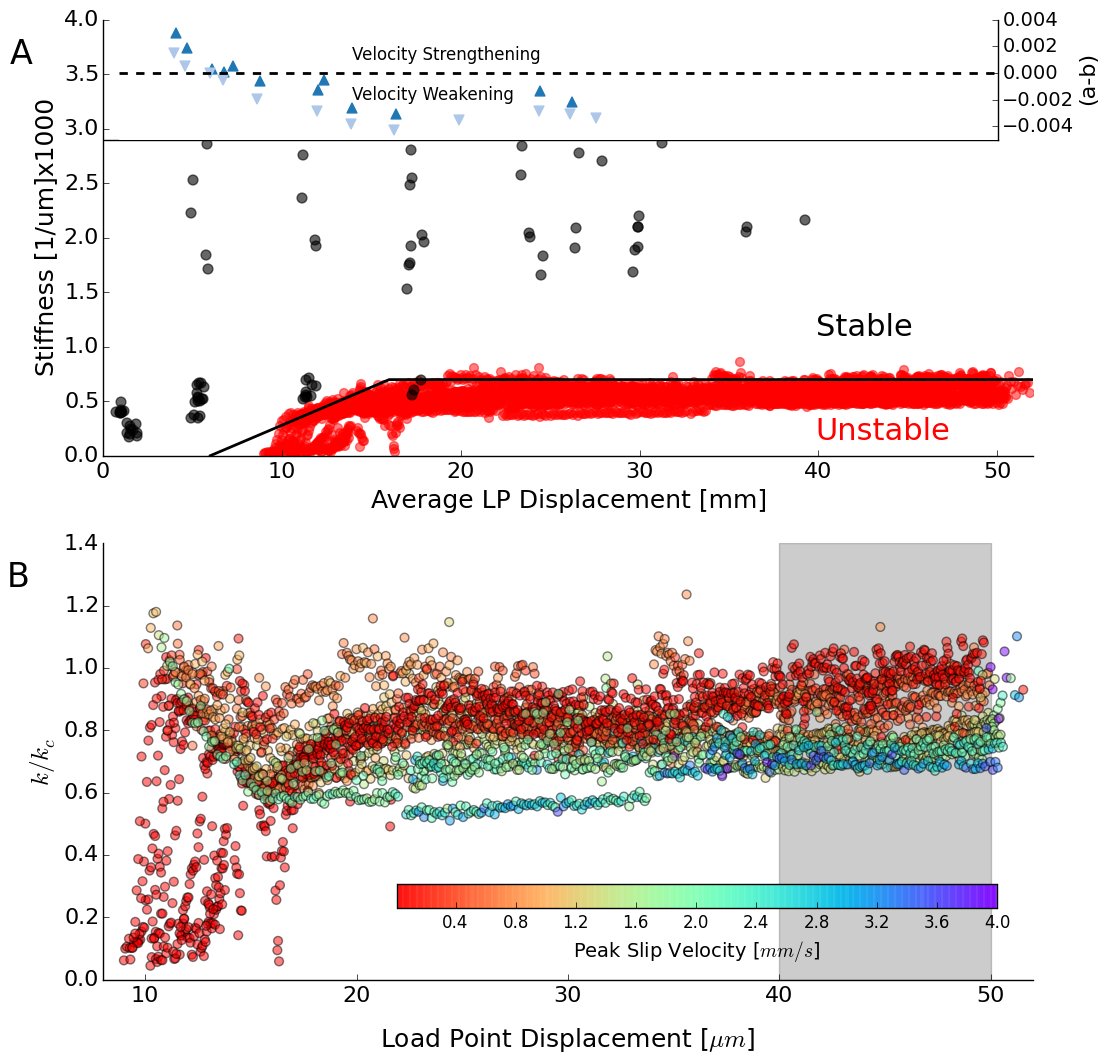
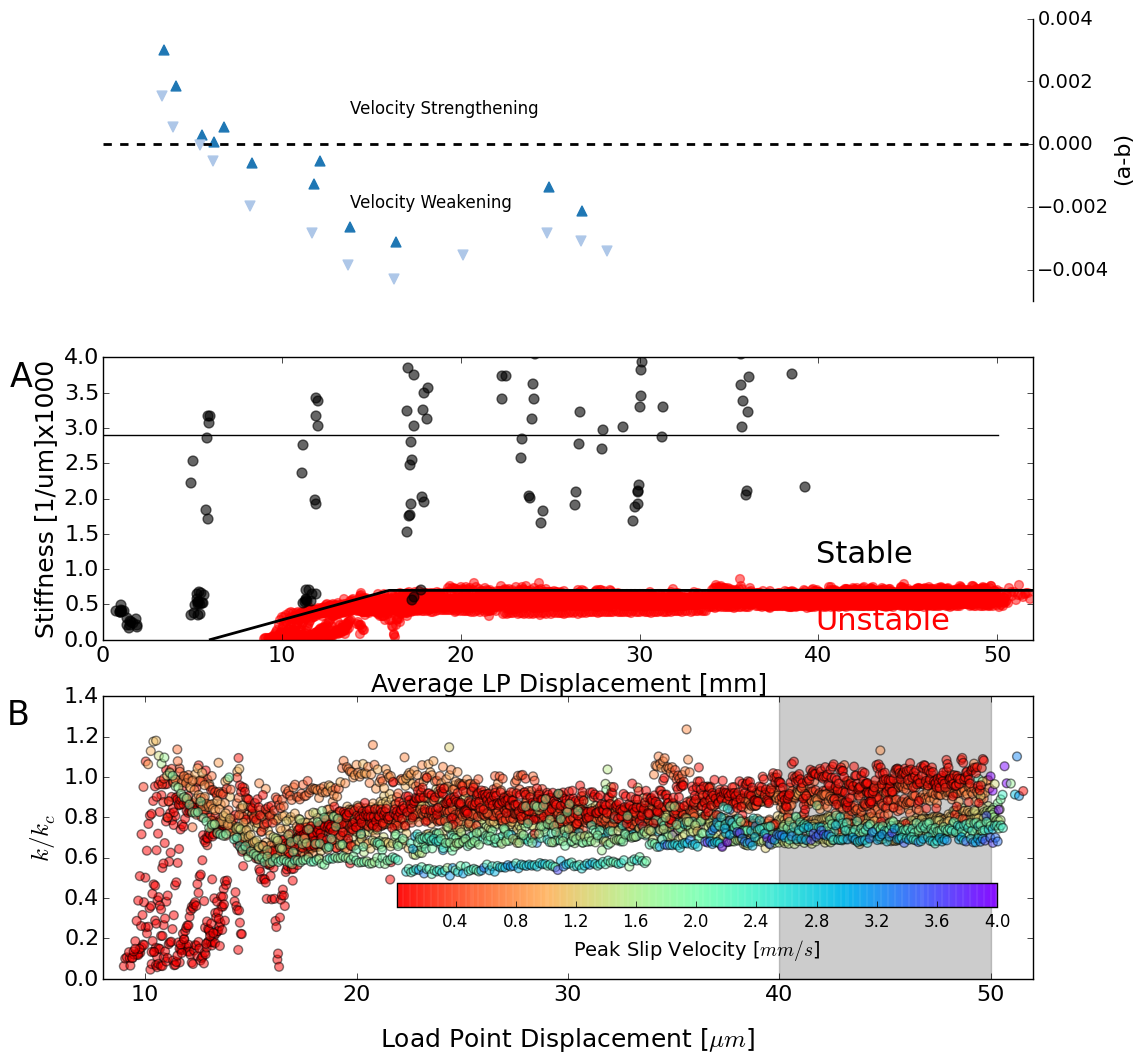
Move a-b plot to vertical row of its own

diff --git a/Figures/Fig_Slip_Properties/make_final_plot.py b/Figures/Fig_Slip_Properties/make_final_plot.py
@@ -77,8 +77,72 @@ for experiment in experiments_with_event_data:
 # Setup figure and axes
 # Generally plots is ~1.33x width to height (10,7.5 or 12,9)
 fig = plt.figure(figsize=(12,12))
-ax1 = plt.subplot(211)
-ax2 = plt.subplot(212)
+ax1 = plt.subplot(311)
+ax2 = plt.subplot(312)
+ax3 = plt.subplot(313)
+
+
+#
+# Plot A top (a-b)
+#
+ax2.axhline(y=2.9,color='k',xmin=0,xmax=0.962)
+
+# Add rectangle for where figure B comes from
+# rect_x1 = 1.
+# rect_x2 = 50.
+# rect_y1 = 2.45
+# rect_y2 = 4.0
+# rect_width = rect_x2-rect_x1
+# rect_height = rect_y2-rect_y1
+# ax2.add_patch(Rectangle((rect_x1,rect_y1),rect_width,rect_height, zorder=50,facecolor="w",edgecolor="w"))
+
+df = pd.read_excel('p4309_rsf_fits.xlsx')
+
+data = df[df['Law']=='r']
+data = data[data['k']==0.0055]
+data =  data.query('Grade == ["A","B"]')
+
+# Label Plot
+#ax1.text(0.01,0.9,'B',transform = ax1.transAxes,fontsize=24)
+
+# Set labels and tick sizes
+#ax1.set_xlabel(r'Displacement [mm]',fontsize=16)
+ax1.set_ylabel(r'(a-b)',fontsize=16)
+ax1.tick_params(axis='both', which='major', labelsize=14)
+
+# Turns off chart clutter
+
+# Turn off top and right tick marks
+ax1.yaxis.tick_right()
+ax1.yaxis.set_label_position("right")
+ax1.get_xaxis().tick_bottom()
+ax1.get_xaxis().tick_top()
+ax1.get_xaxis().set_ticks([])
+ax1.get_yaxis().set_ticks([-0.004,-0.002,0.,0.002,0.004])
+#ax1.get_yaxis().tick_left()
+
+# Turn off top and right splines
+ax1.spines["top"].set_visible(False)
+ax1.spines["bottom"].set_visible(False)
+ax1.spines["left"].set_visible(False)
+
+# Plotting
+up = data[data['Type']=='Up']
+ax1.scatter(up['LP_Disp']/1000,(up['a']-up['b']),color=tableau20[0],
+            s=50,marker='^', label='Velocity Step Up')
+
+down = data[data['Type']=='Down']
+ax1.scatter(down['LP_Disp']/1000,(down['a']-down['b']),color=tableau20[1],
+            s=50,marker='v', label='Velocity Step Down')
+
+ax1.axhline(y=0,color='k',linewidth='2',linestyle='--')
+
+# Label velocity regions
+ax1.text(14,0.001,'Velocity Strengthening',fontsize=12)
+ax1.text(14,-0.002,'Velocity Weakening',fontsize=12)
+
+ax1.set_xlim(1, 50)
+ax1.set_ylim(-0.005 ,0.004)
 
 
 #
@@ -89,22 +153,22 @@ exps = ['p4267','p4268','p4269','p4270','p4271','p4272','p4273',
         'p4309','p4310','p4311','p4312','p4313','p4314','p4316','p4317',
         'p4327','p4328','p4329','p4330']
 
-ax1.text(-0.1,0.9,'A',transform = ax1.transAxes,fontsize=24)
+ax2.text(-0.1,0.9,'A',transform = ax2.transAxes,fontsize=24)
 
 # Set labels and tick sizes
-ax1.set_xlabel(r'Average LP Displacement [mm]',fontsize=18)
-ax1.set_ylabel(r'Stiffness [1/um]x1000',fontsize=18)
-ax1.tick_params(axis='both', which='major', labelsize=16)
+ax2.set_xlabel(r'Average LP Displacement [mm]',fontsize=18)
+ax2.set_ylabel(r'Stiffness [1/um]x1000',fontsize=18)
+ax2.tick_params(axis='both', which='major', labelsize=16)
 
 # Turns off chart clutter
 
 # Turn off top and right tick marks
-ax1.get_xaxis().tick_bottom()
-ax1.get_yaxis().tick_left()
+#ax2.get_xaxis().tick_bottom()
+#ax2.get_yaxis().tick_left()
 
 # Turn off top and right splines
-ax1.spines["top"].set_visible(False)
-ax1.spines["right"].set_visible(False)
+#ax2.spines["top"].set_visible(False)
+#ax2.spines["right"].set_visible(False)
 
 # Plotting
 
@@ -113,13 +177,13 @@ for exp in exps:
     df = pd.read_csv('/Users/jleeman/Dropbox/PennState/BiaxExperiments/%s/%s_stiffness_cycles.txt'%(exp,exp))
 
     temp = df[df['Behavior']=='stable']
-    ax1.scatter(temp['AvgDisp']/1000.,temp['Slope']*1000,color='k',s=50,alpha=0.6,zorder=50)
+    ax2.scatter(temp['AvgDisp']/1000.,temp['Slope']*1000,color='k',s=50,alpha=0.6,zorder=50)
 
     #temp = df[df['Behavior']=='slow']
-    #ax1.scatter(temp['AvgDisp']/1000.,temp['Slope'],color='r',s=50,alpha=0.6)
+    #ax2.scatter(temp['AvgDisp']/1000.,temp['Slope'],color='r',s=50,alpha=0.6)
 
     #temp = df[df['Behavior']=='fast']
-    #ax1.scatter(temp['AvgDisp']/1000.,temp['Slope'],color='r',s=50,alpha=0.6)
+    #ax2.scatter(temp['AvgDisp']/1000.,temp['Slope'],color='r',s=50,alpha=0.6)
 
 # Add rectangle for where figure B comes from
 # rect_x1 = 10.
@@ -128,11 +192,11 @@ for exp in exps:
 # rect_y2 = 0.0009*1000
 # rect_width = rect_x2-rect_x1
 # rect_height = rect_y2-rect_y1
-# ax1.add_patch(Rectangle((rect_x1,rect_y1),rect_width,rect_height,alpha=0.2, zorder=0,facecolor="k"))
+# ax2.add_patch(Rectangle((rect_x1,rect_y1),rect_width,rect_height,alpha=0.2, zorder=0,facecolor="k"))
 
 # Set limits
-ax1.set_xlim(0,52)
-ax1.set_ylim(0,0.004*1000)
+ax2.set_xlim(0,52)
+ax2.set_ylim(0,0.004*1000)
 
 low_color = 10./1000.
 high_color = 4000./1000.
@@ -143,79 +207,17 @@ color_col=11
 
 for key in experiment_event_data:
     event_data = experiment_event_data[key]
-    sc = ax1.scatter(event_data[:,9]/1000.,event_data[:,5]*1000,s=marker_size,alpha=marker_alpha,color='r')
+    sc = ax2.scatter(event_data[:,9]/1000.,event_data[:,5]*1000,s=marker_size,alpha=marker_alpha,color='r')
     print key,np.min(event_data[:,color_col]), np.max(event_data[:,color_col])
 
 # Plot line for kc definition
-ax1.plot([6,16,52],[2.6e-6*1000,7e-4*1000,7e-4*1000],color='k',linewidth=2)
+ax2.plot([6,16,52],[2.6e-6*1000,7e-4*1000,7e-4*1000],color='k',linewidth=2)
 
 # Add text
-ax1.text(40,1.1,'Stable',fontsize=22)
-ax1.text(40,0.15,'Unstable',fontsize=22,color='r')
+ax2.text(40,1.1,'Stable',fontsize=22)
+ax2.text(40,0.15,'Unstable',fontsize=22,color='r')
 
-#
-# Plot A inset
-#
-axAinset = plt.axes([.138, .8, .733, .1])
 
-ax1.axhline(y=2.9,color='k',xmin=0,xmax=0.962)
-
-# Add rectangle for where figure B comes from
-# rect_x1 = 1.
-# rect_x2 = 50.
-# rect_y1 = 2.45
-# rect_y2 = 4.0
-# rect_width = rect_x2-rect_x1
-# rect_height = rect_y2-rect_y1
-# ax1.add_patch(Rectangle((rect_x1,rect_y1),rect_width,rect_height, zorder=50,facecolor="w",edgecolor="w"))
-
-df = pd.read_excel('p4309_rsf_fits.xlsx')
-
-data = df[df['Law']=='r']
-data = data[data['k']==0.0055]
-data =  data.query('Grade == ["A","B"]')
-
-# Label Plot
-#axAinset.text(0.01,0.9,'B',transform = axAinset.transAxes,fontsize=24)
-
-# Set labels and tick sizes
-#axAinset.set_xlabel(r'Displacement [mm]',fontsize=16)
-axAinset.set_ylabel(r'(a-b)',fontsize=16)
-axAinset.tick_params(axis='both', which='major', labelsize=14)
-
-# Turns off chart clutter
-
-# Turn off top and right tick marks
-axAinset.yaxis.tick_right()
-axAinset.yaxis.set_label_position("right")
-axAinset.get_xaxis().tick_bottom()
-axAinset.get_xaxis().tick_top()
-axAinset.get_xaxis().set_ticks([])
-axAinset.get_yaxis().set_ticks([-0.004,-0.002,0.,0.002,0.004])
-#axAinset.get_yaxis().tick_left()
-
-# Turn off top and right splines
-axAinset.spines["top"].set_visible(False)
-axAinset.spines["bottom"].set_visible(False)
-axAinset.spines["left"].set_visible(False)
-
-# Plotting
-up = data[data['Type']=='Up']
-axAinset.scatter(up['LP_Disp']/1000,(up['a']-up['b']),color=tableau20[0],
-            s=50,marker='^', label='Velocity Step Up')
-
-down = data[data['Type']=='Down']
-axAinset.scatter(down['LP_Disp']/1000,(down['a']-down['b']),color=tableau20[1],
-            s=50,marker='v', label='Velocity Step Down')
-
-axAinset.axhline(y=0,color='k',linewidth='2',linestyle='--')
-
-# Label velocity regions
-axAinset.text(14,0.001,'Velocity Strengthening',fontsize=12)
-axAinset.text(14,-0.002,'Velocity Weakening',fontsize=12)
-
-axAinset.set_xlim(1, 50)
-axAinset.set_ylim(-0.005 ,0.004)
 
 # # Plot Kc
 # df = pd.read_excel('/Users/jleeman/Dropbox/PennState/BiaxExperiments/p4309/p4309_rsf_fits.xlsx')
@@ -243,11 +245,11 @@ axAinset.set_ylim(-0.005 ,0.004)
 #         continue
 #
 #     if fit['Type']=='Down' and fit['Law']=='r' and fit['k']==0.0055:
-#         #ax1.scatter(fit['LP_Disp']/1000.,fit['Kc']*1000,c=color,s=60,marker='v',zorder=50)
+#         #ax2.scatter(fit['LP_Disp']/1000.,fit['Kc']*1000,c=color,s=60,marker='v',zorder=50)
 #         print fit['LP_Disp']/1000.,fit['Kc']
 #
 #     elif fit['Type']=='Up' and fit['Law']=='r' and fit['k']==0.0055:
-#         #ax1.scatter(fit['LP_Disp']/1000.,fit['Kc']*1000,c=color,s=60,marker='^',zorder=50)
+#         #ax2.scatter(fit['LP_Disp']/1000.,fit['Kc']*1000,c=color,s=60,marker='^',zorder=50)
 #         print fit['LP_Disp']/1000.,fit['Kc']
 #     else:
 #         pass
@@ -259,27 +261,24 @@ axAinset.set_ylim(-0.005 ,0.004)
 #
 
 # Set labels and tick sizes
-ax2.set_xlabel(r'Load Point Displacement [$\mu m$]',fontsize=18,labelpad=15)
-ax2.set_ylabel(r'$k/k_c$',fontsize=18)
-ax2.tick_params(axis='both', which='major', labelsize=16)
+ax3.set_xlabel(r'Load Point Displacement [$\mu m$]',fontsize=18,labelpad=15)
+ax3.set_ylabel(r'$k/k_c$',fontsize=18)
+ax3.tick_params(axis='both', which='major', labelsize=16)
 
 # Turns off chart clutter
 
 # Turn off top and right tick marks
-ax2.get_xaxis().tick_bottom()
-ax2.get_yaxis().tick_left()
-
-ax2.get_xaxis().tick_bottom()
-ax2.get_yaxis().tick_left()
+#ax3.get_xaxis().tick_bottom()
+#ax3.get_yaxis().tick_left()
 
 # Turn off top and right splines
-ax2.spines["top"].set_visible(False)
-ax2.spines["right"].set_visible(False)
+#ax3.spines["top"].set_visible(False)
+#ax3.spines["right"].set_visible(False)
 
 # Plotting
 
 # Make panel A of displacement/stiffness
-ax2.text(-0.1,0.9,'B',transform = ax2.transAxes,fontsize=24)
+ax3.text(-0.1,0.9,'B',transform = ax3.transAxes,fontsize=24)
 
 low_color = 10./1000.
 high_color = 4000./1000.
@@ -295,23 +294,23 @@ for key in experiment_event_data:
     for k,disp in zip(event_data[:,5],event_data[:,9]/1000.):
         k_kc_ratio.append(k/get_kc(disp))
 
-    sc = ax2.scatter(event_data[:,9]/1000.,k_kc_ratio,c=event_data[:,color_col]/1000.,s=marker_size,alpha=marker_alpha,vmin=low_color,vmax=high_color,cmap=color_map)
+    sc = ax3.scatter(event_data[:,9]/1000.,k_kc_ratio,c=event_data[:,color_col]/1000.,s=marker_size,alpha=marker_alpha,vmin=low_color,vmax=high_color,cmap=color_map)
     print key,np.min(event_data[:,color_col]), np.max(event_data[:,color_col])
 # cbar_ax = fig.add_axes([0.85, 0.15, 0.05, 0.7])
 # plt.colorbar(sc,cax=cbar_ax)
 # for experiment in experiments_with_unload_reload:
 #     df = pd.read_csv('/Users/jleeman/Dropbox/PennState/BiaxExperiments/%s/%s_stiffness_cycles.txt'%(experiment,experiment))
 #
-#     ax2.scatter(df['AvgDisp']/1000.,df['Slope'],color='g',s=50,alpha=0.6)
+#     ax3.scatter(df['AvgDisp']/1000.,df['Slope'],color='g',s=50,alpha=0.6)
 
 position=fig.add_axes([0.37,0.16,0.5,0.02])  ## the parameters are the specified position you set [left, bottom, width, height]
 cb = fig.colorbar(sc,cax=position,orientation='horizontal')
 cb.solids.set_edgecolor("face")
 cb.set_label(r'Peak Slip Velocity [$mm/s$]',fontsize=14)
 
-ax2.set_ylim(0,1.4)
-ax2.set_xlim(8,52)
+ax3.set_ylim(0,1.4)
+ax3.set_xlim(8,52)
 
-ax2.axvspan(40, 50, alpha=0.2, color='k', zorder=0)
+ax3.axvspan(40, 50, alpha=0.2, color='k', zorder=0)
 
 plt.savefig('figure.png', bbox_inches="tight");
